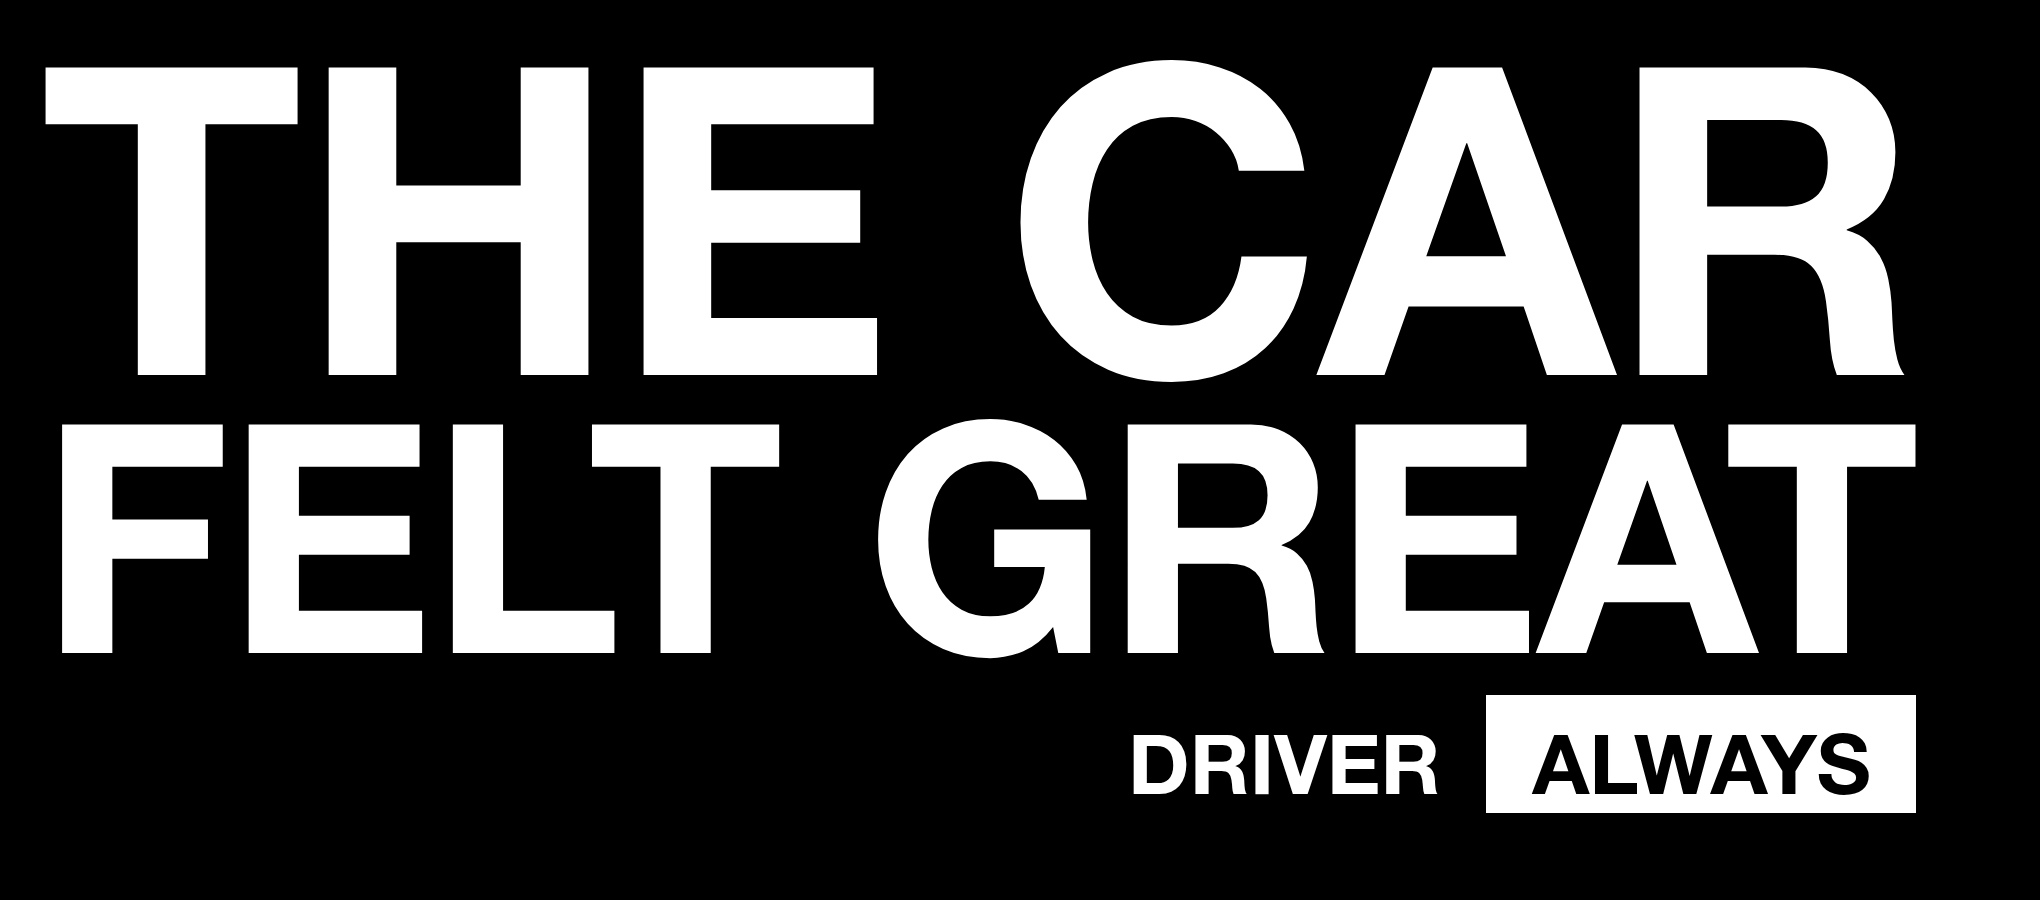
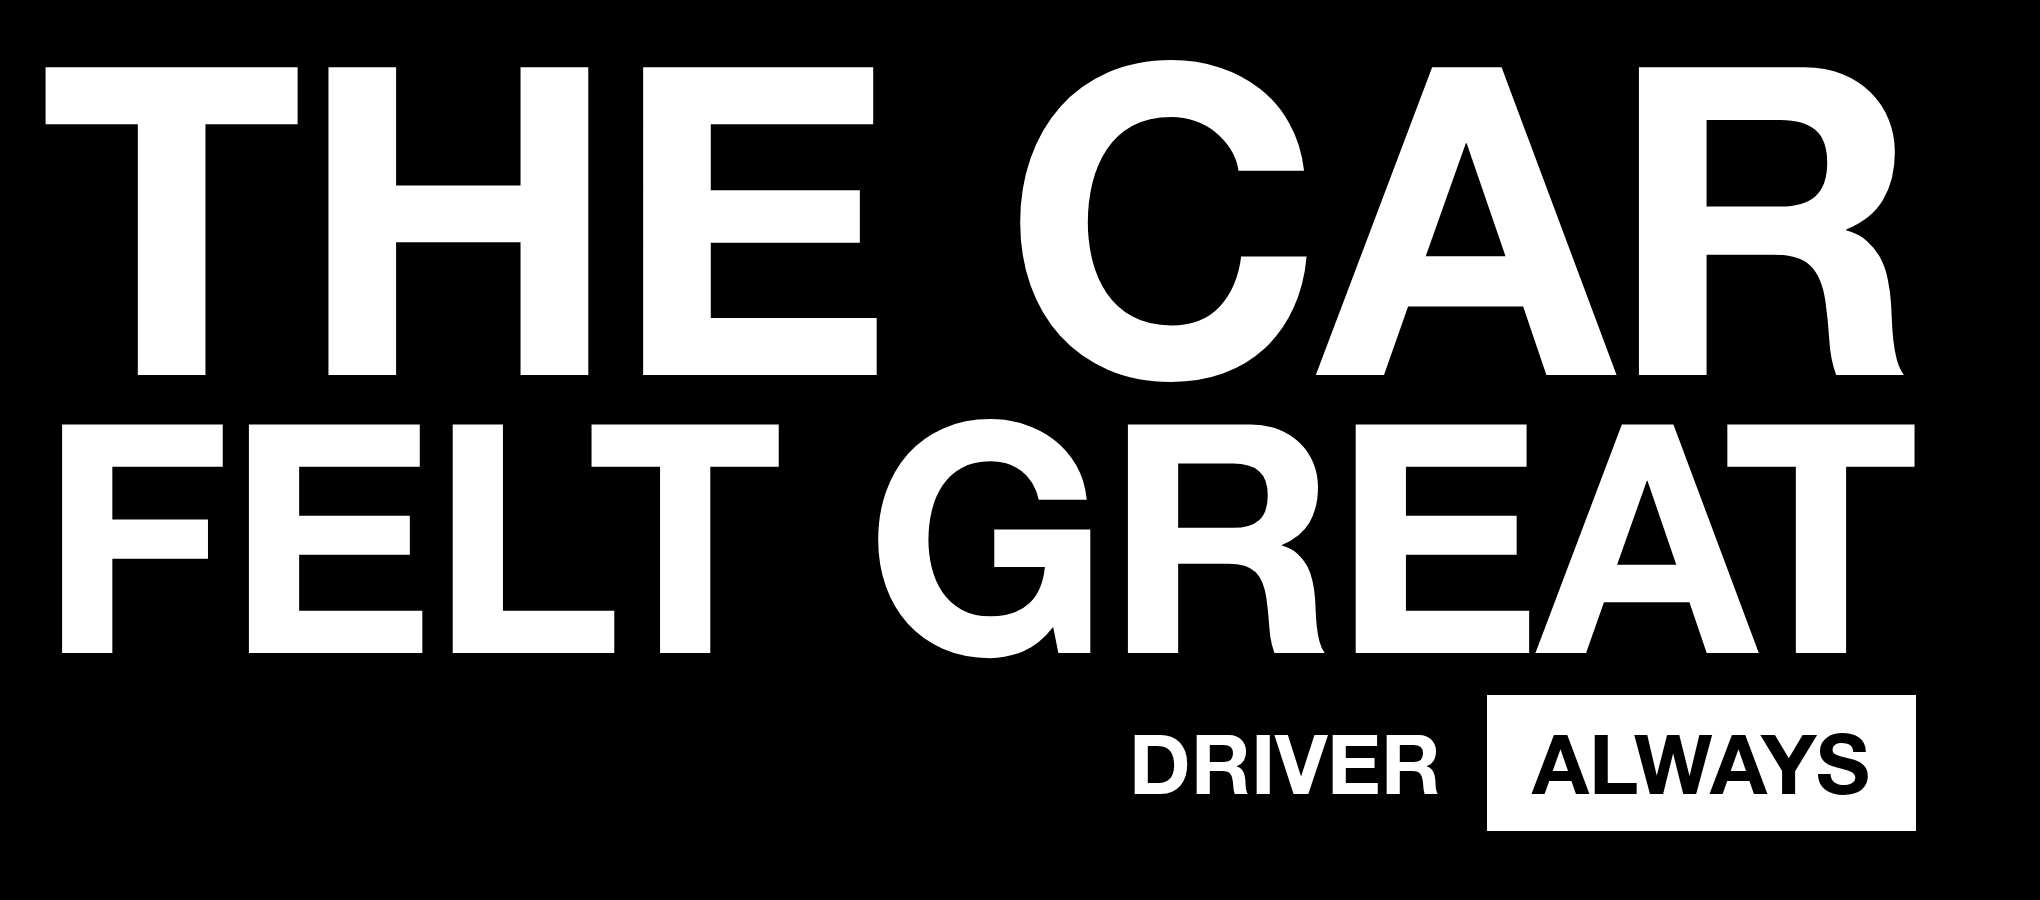
Render with the headless shell so the print PNG is the full layout
Full Chrome's --headless=new takes --window-size as the outer window and
paints a shorter viewport, which cut the corner-label box off along its
bottom edge in the print file and made the caps look low. The shell has no
window chrome. Verified by scanning pixel columns of the output.

Claude-Session: https://claude.ai/code/session_019tmHrDHQ6vYCtp1fHTagqX

Changed region(s): [[0.7103, 0.9022, 0.9574, 0.9333], [0.5559, 0.84, 0.6485, 0.8711]]

diff --git a/HANDOFF.md b/HANDOFF.md
@@ -189,6 +189,19 @@ white) while exiting 0. The script now matches the whole `<script id="tokens">`
 tag. Same failure class as the lower-third clip: a render that exits 0 proves
 nothing — look at the PNG.
 
+A second one, same class (2026-09-10): Ian read the corner label as sitting low
+in its box. Measured in the DOM, the caps were centred to within 0.02em of the
+0.32em padding; measured in the PNG by scanning pixel columns, the box was
+cut off 18px above its bottom edge. Full Chrome's `--headless=new` treats
+`--window-size` as the OUTER window, so a 900px window paints an ~813px
+viewport and the screenshot's lowest ~87px is never drawn. The renderer now
+prefers Playwright's `chromium_headless_shell`, which has no window chrome, so
+the PNG is exactly the layout. Verified by pixel scan, not by eye: the box
+runs its full 136px at 83px type. The residual is the system's own: with
+`line-height: 1` Helvetica's caps sit ~0.02em below the box centre, the same
+as every other corner label in the repo, so it was left alone rather than
+nudged on one garment.
+
 **Locked 2026-09-10:** the two-tone (white + Spark) version, over the
 single-ink white. **Open, Ian's calls:** (1) Grit was never tried for the punch
 line; Spark stands. (2) Whether the garment carries an
